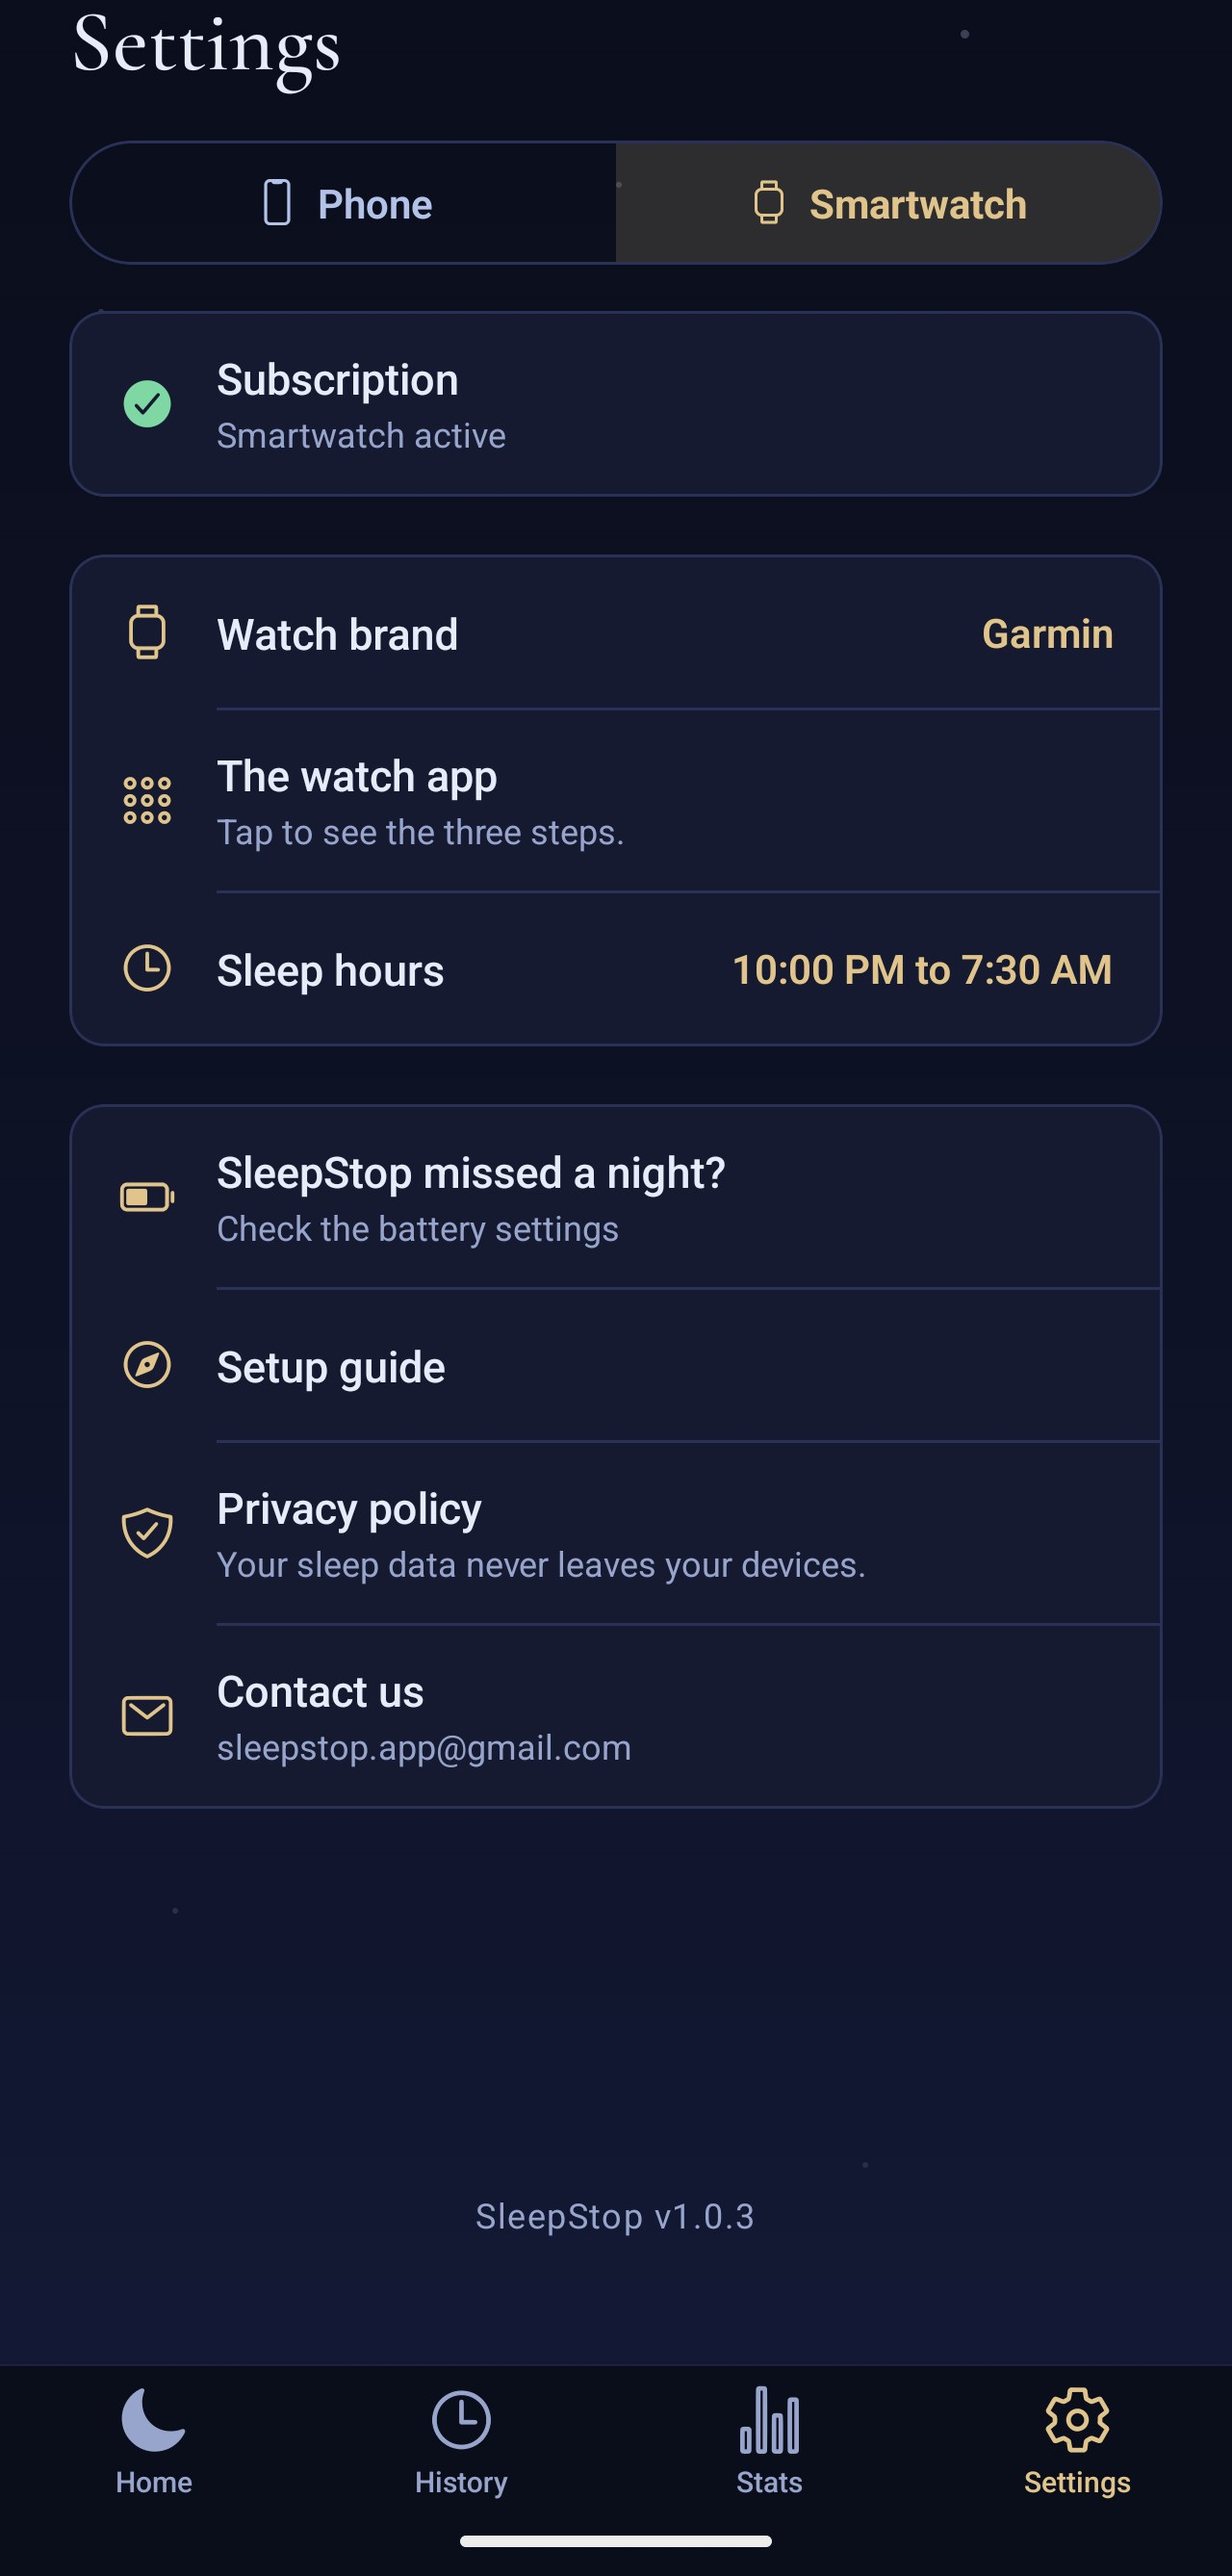
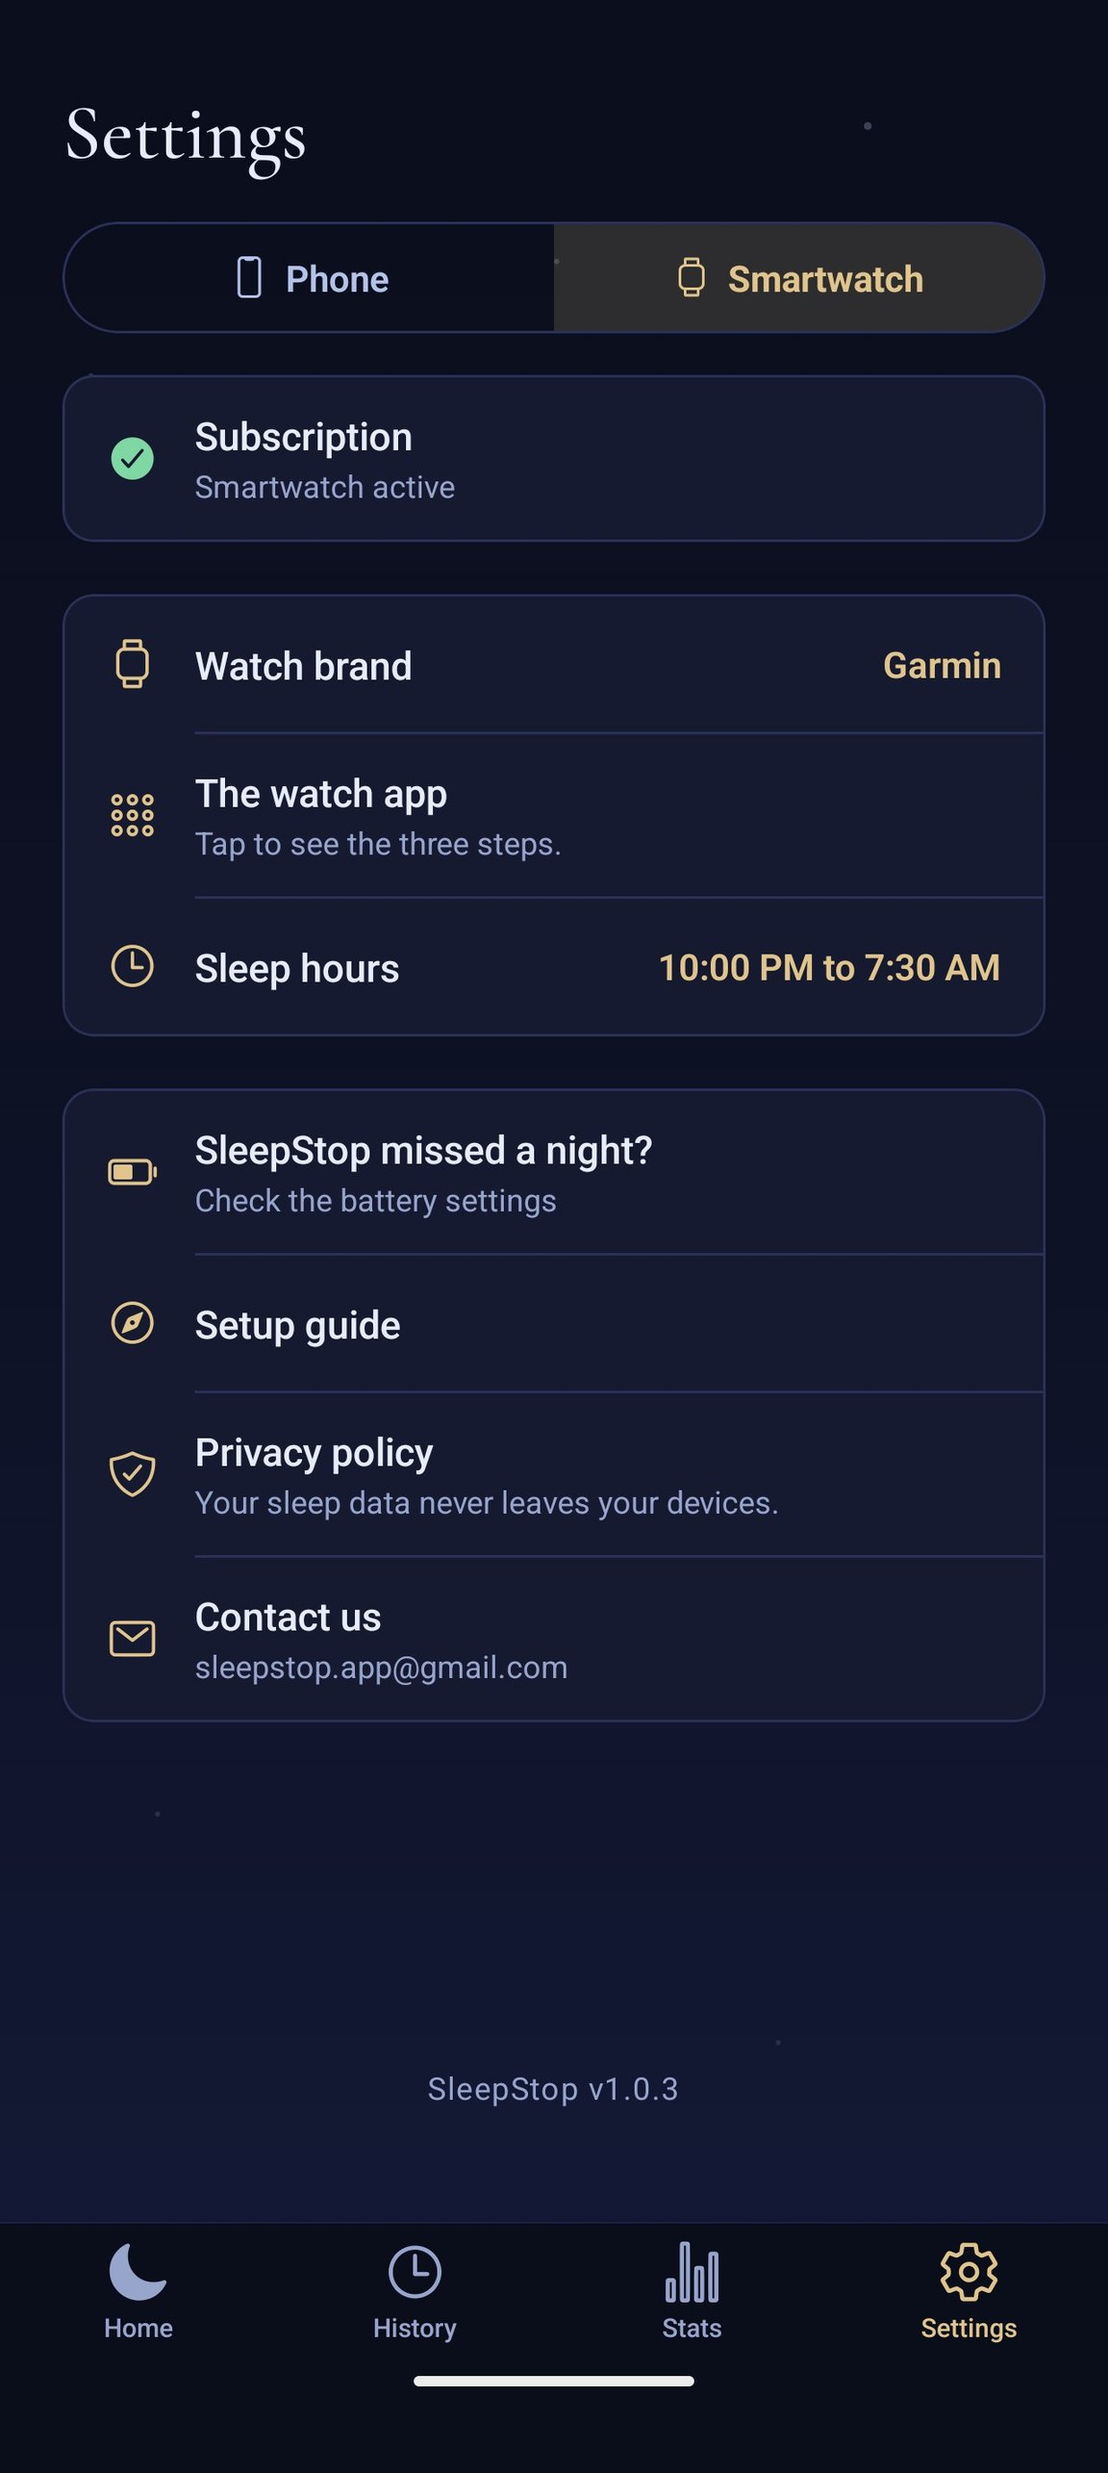
Launch: store links, unclipped screenshots, link preview without beta pill

diff --git a/index.html b/index.html
@@ -47,7 +47,7 @@
         <a class="nav-how" href="./#how-it-works">How it works</a>
         <a href="privacy.html">Privacy</a>
         <a href="support.html">Support</a>
-        <a class="btn btn-primary btn-sm nav-cta" href="./#join">Join the waitlist</a>
+        <a class="btn btn-primary btn-sm nav-cta" href="./#get">Get SleepStop</a>
       </nav>
     </div>
   </header>
@@ -66,11 +66,11 @@
             instead. Either way, you wake up right where you left off.
           </p>
           <div class="hero-cta">
-            <a class="btn btn-primary" href="./#join">Join the waitlist</a>
+            <a class="btn btn-primary" href="https://play.google.com/store/apps/details?id=app.sleepstop.ws">Get it on Google Play</a>
             <a class="btn btn-secondary" href="./#how-it-works">How it works</a>
           </div>
           <div class="status-pill">
-            Launching soon on Garmin Connect IQ Store &amp; Google Play
+            On Google Play &amp; the Garmin Connect IQ Store
           </div>
         </div>
 
@@ -204,7 +204,7 @@
         <div class="feature-row">
           <div class="feature-media">
             <div class="phone-frame">
-              <img src="assets/phone-stats.jpg" alt="SleepStop Stats screen: 'You usually fall asleep at 11:36 PM, ± 21 min', weeknights versus weekends, the last 14 nights against your usual time, and the apps you fall asleep to" />
+              <img src="assets/phone-stats.jpg" alt="SleepStop Stats screen: 'You usually fall asleep at 11:11 PM, ± 19 min', weeknights versus weekends, the last 14 nights against your usual time, and the apps you fall asleep to" />
             </div>
             <p class="feature-caption">Stats - your usual bedtime, in numbers</p>
           </div>
@@ -266,12 +266,16 @@
     </section>
 
     <!-- ==================== Final CTA (dawn) ==================== -->
-    <section class="cta-final" id="join">
+    <section class="cta-final" id="get">
       <div class="container">
         <h2>Calmer nights, one tap away.</h2>
-        <p>Launching soon on the Garmin Connect IQ Store and Google Play.
-          Leave your address and we'll write to you the day it lands.</p>
-        <a class="btn btn-primary" href="mailto:sleepstop.app@gmail.com?subject=SleepStop%20waitlist">Join the waitlist</a>
+        <p>SleepStop is free on Google Play. Got a Garmin watch? Add the free SleepStop
+          watch app from the Connect IQ Store - watch detection comes with a 14-day free
+          trial, then a monthly subscription.</p>
+        <div class="cta-buttons">
+          <a class="btn btn-primary" href="https://play.google.com/store/apps/details?id=app.sleepstop.ws">Get it on Google Play</a>
+          <a class="btn btn-secondary" href="https://apps.garmin.com/apps/57247def-3a3c-4caf-bb72-bbf6363b6054">Get the watch app</a>
+        </div>
       </div>
     </section>
 

diff --git a/support.html b/support.html
@@ -47,7 +47,7 @@
         <a class="nav-how" href="./#how-it-works">How it works</a>
         <a href="privacy.html">Privacy</a>
         <a href="support.html">Support</a>
-        <a class="btn btn-primary btn-sm nav-cta" href="./#join">Join the waitlist</a>
+        <a class="btn btn-primary btn-sm nav-cta" href="./#get">Get SleepStop</a>
       </nav>
     </div>
   </header>
@@ -66,7 +66,7 @@
             <p class="eyebrow">Contact</p>
             <h2>Get in touch</h2>
             <p>Found a bug, or did SleepStop stop the sound at the wrong moment? Tell the
-              developer - beta feedback is exactly what makes detection better.</p>
+              developer - your feedback is exactly what makes detection better.</p>
           </div>
           <div class="contact-action">
             <a class="btn btn-primary" href="mailto:sleepstop.app@gmail.com?subject=SleepStop%20support">Send an email</a>
@@ -154,14 +154,16 @@
           <details>
             <summary>How do I install it?</summary>
             <div class="faq-body">
-              <p>Not on your own yet. SleepStop isn't in the public stores <strong>just
-                yet</strong>, and the watch half still has to be loaded onto each watch over USB
-                by hand, one model at a time - so there is no install we can simply hand you.</p>
-              <p>The two halves will not reach the public stores together. The watch app goes to
-                the <strong>Garmin Connect IQ Store</strong> first; the phone app stays an invite
-                link for a while longer, with <strong>Google Play</strong> later.
-                <a href="./#join">Join the waitlist</a> and we'll let you know as each
-                one lands - install links will appear here too.</p>
+              <ol>
+                <li>Get <strong>SleepStop</strong> on <a href="https://play.google.com/store/apps/details?id=app.sleepstop.ws">Google Play</a>. Running on
+                  the phone alone works straight away.</li>
+                <li>With a Garmin watch: install the <strong>Connect IQ</strong> app on your phone
+                  if you don't have it yet, then get the
+                  <a href="https://apps.garmin.com/apps/57247def-3a3c-4caf-bb72-bbf6363b6054">SleepStop watch app</a> - or search for SleepStop in
+                  Connect IQ.</li>
+                <li>Open SleepStop on the watch once. After that it runs in the background, and
+                  the phone app's setup guide walks you through the rest.</li>
+              </ol>
             </div>
           </details>
 

diff --git a/styles.css b/styles.css
@@ -688,9 +688,10 @@ p { margin: 0 0 var(--space-lg); }
 .shot-frame span { color: var(--text-faint); font-size: 0.9rem; }
 .shot-frame small { color: var(--text-faint); opacity: 0.7; font-size: 0.75rem; }
 
-/* Portrait phone — a dark bezel around a captured app screen. The screenshots are
-   pre-cropped to just the app UI (OS status bar + nav bar removed), so the frame shows
-   the whole image at its natural height — no object-fit cropping. */
+/* Portrait phone — a dark bezel around a captured app screen. Since 2026-10-08 the screenshots
+   KEEP the (demo-mode, clean) status bar and the gesture bar: cropped to the bare app UI, the
+   app's own titles and tab labels ran into the frame's rounded corners (his report). The frame
+   shows the whole image at its natural height — no object-fit cropping. */
 .phone-frame {
   width: 100%;
   max-width: 260px;
@@ -821,6 +822,13 @@ p { margin: 0 0 var(--space-lg); }
 }
 .cta-final h2 { margin-bottom: var(--space-md); }
 .cta-final p { color: var(--text-muted); max-width: 44ch; margin: 0 auto var(--space-xl); }
+/* Two store buttons since launch (2026-10-08): Play first, the watch app beside it. */
+.cta-buttons {
+  display: flex;
+  justify-content: center;
+  flex-wrap: wrap;
+  gap: var(--space-md);
+}
 
 /* ==========================================================================
    Generic page header (Privacy / Support)
@@ -924,14 +932,16 @@ p { margin: 0 0 var(--space-lg); }
 .faq-body p,
 .faq-body li { color: var(--text-muted); }
 .faq-body p:last-child { margin-bottom: 0; }
-.faq-body ul { padding-left: 1.25em; margin: 0; }
+.faq-body ul,
+.faq-body ol { padding-left: 1.25em; margin: 0; }
 .faq-body li { margin-bottom: var(--space-sm); }
 .faq-body li:last-child { margin-bottom: 0; }
 .faq-body li::marker { color: var(--accent); }
 .faq-body strong { color: var(--text-prime); }
 
 .support-foot { margin-top: var(--space-2xl); color: var(--text-muted); }
-.support-foot a { color: var(--accent); text-decoration: underline; text-underline-offset: 2px; }
+.support-foot a,
+.faq-body a { color: var(--accent); text-decoration: underline; text-underline-offset: 2px; }
 
 /* Simple placeholder frame for content still to come */
 .placeholder {

diff --git a/privacy.html b/privacy.html
@@ -47,7 +47,7 @@
         <a class="nav-how" href="./#how-it-works">How it works</a>
         <a href="privacy.html">Privacy</a>
         <a href="support.html">Support</a>
-        <a class="btn btn-primary btn-sm nav-cta" href="./#join">Join the waitlist</a>
+        <a class="btn btn-primary btn-sm nav-cta" href="./#get">Get SleepStop</a>
       </nav>
     </div>
   </header>
